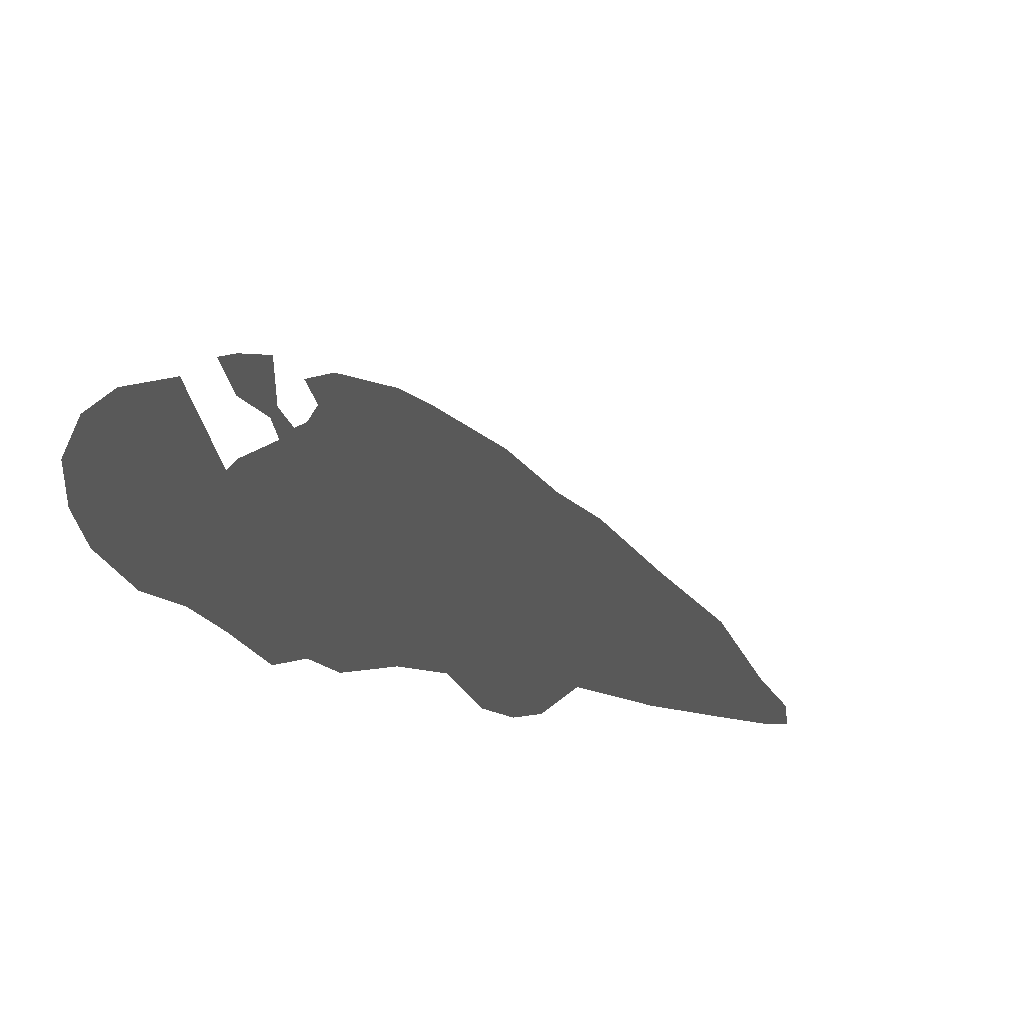
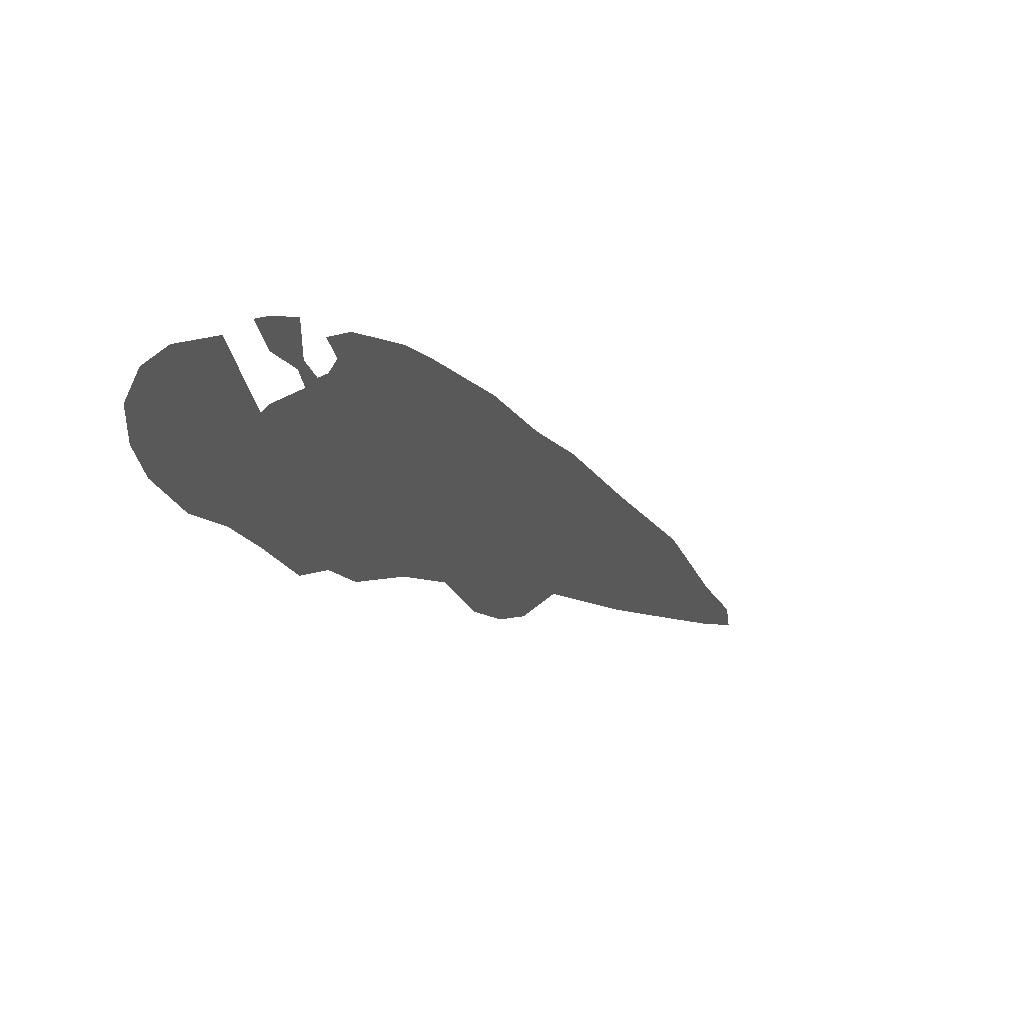
cambio a 6k

Changed region(s): [[0.0625, 0.2812, 0.7812, 0.7188]]

diff --git a/index.html b/index.html
@@ -34,13 +34,11 @@
 		<div id="container">
 
 			<div class="label_container">
-				<div class="label" data-coords="[ -38, 94, 59 ]" data-color="#b53e3e">A 01</div>
-				<div class="label" data-coords="[ 0, 98, 58 ]" data-color="#b53e3e">A 02</div>
-				<div class="label" data-coords="[ 33, 94, 58 ]" data-color="#b53e3e">A 03</div>
-				<div class="label" data-coords="[ 84, 74, 57 ]" data-color="#b53e3e">A 04</div>
-				<div class="label" data-coords="[ 121, 55, 57 ]" data-color="#b53e3e">A 05</div>
-				<div class="label" data-coords="[ -38, -8, 65 ]" data-color="#b53e3e">A 06</div>
-				<div class="label" data-coords="[ -82, -48, 69 ]" data-color="#b53e3e">A 07</div>
+				<div class="label" data-coords="[ -32, 93, 78 ]" data-color="#b53e3e">A 01</div>
+				<div class="label" data-coords="[ 18, 128, 69 ]" data-color="#b53e3e">A 02</div>
+				<div class="label" data-coords="[ 125, 66, 61 ]" data-color="#b53e3e">A 03</div>
+				<div class="label" data-coords="[ 129, 12, 59 ]" data-color="#b53e3e">A 04</div>
+				<div class="label" data-coords="[ 88, -108, 57 ]" data-color="#b53e3e">A 05</div>
 			</div>
 					
 			<ul class='tabs'>
@@ -268,7 +266,7 @@
 			
 					var uniforms = {    // custom uniforms (your textures)
 
-					tOne: { type: "t", value: THREE.ImageUtils.loadTexture( 'images/E2.png') },
+					tOne: { type: "t", value: THREE.ImageUtils.loadTexture( 'images/E4.png') },
 					tSec: { type: "t", value: THREE.ImageUtils.loadTexture( 'images/pnoa.jpg' ) }
 					};
 					
@@ -278,10 +276,10 @@
 						fragmentShader: fragShader
 					});
 				
-					var geometry = new THREE.PlaneGeometry(300, 300, 199, 199);
+					var geometry = new THREE.PlaneGeometry(300, 300, 239, 239);
 			
 					for (var i = 0, l = geometry.vertices.length; i < l; i++) {
-						geometry.vertices[i].z = data[i] / 65535 * 10000;
+						geometry.vertices[i].z = data[i] / 65535 * 8000;
 					}
 				
 					plane = new THREE.Mesh(geometry, material_shh);
